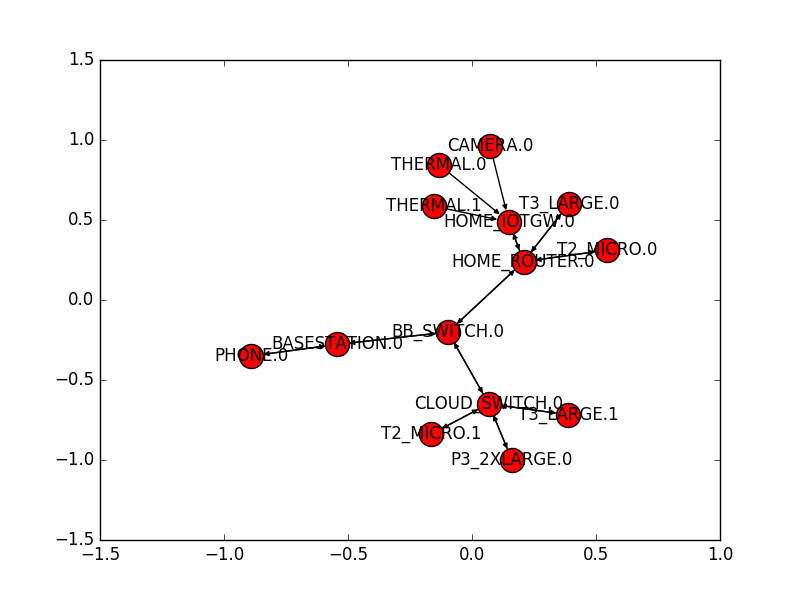
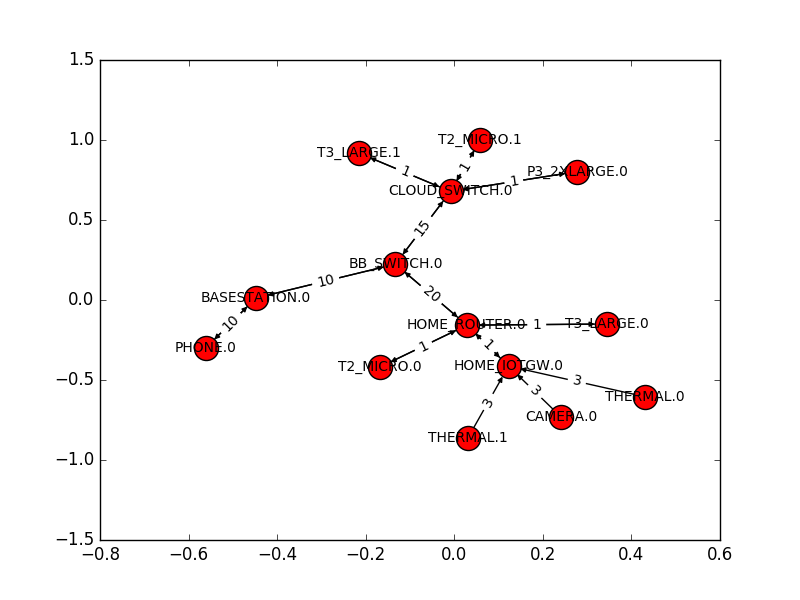
show result and fix wrong constrain

diff --git a/placethings/ilp_solver.py b/placethings/ilp_solver.py
@@ -5,13 +5,14 @@ from __future__ import unicode_literals
 
 from builtins import range
 from collections import defaultdict
-from future.utils import listvalues
+from future.utils import listvalues, iteritems
 import logging
 from itertools import izip as zip
 import pulp
 import networkx as nx
 
 from placethings.definition import Const, GdInfo, GtInfo, Hardware
+from placethings.utils import common_utils, plot_utils
 
 
 log = logging.getLogger()
@@ -20,7 +21,8 @@ log = logging.getLogger()
 def _find_src_nodes(Gt):
     src_list = []
     for node in Gt.nodes():
-        if not Gt.predecessors(node):
+        predecessors = list(Gt.predecessors(node))
+        if not predecessors:
             src_list.append(node)
     return src_list
 
@@ -28,12 +30,35 @@ def _find_src_nodes(Gt):
 def _find_dst_nodes(Gt):
     dst_list = []
     for node in Gt.nodes():
-        if not Gt.successors(node):
+        successors = list(Gt.successors(node))
+        if not successors:
             dst_list.append(node)
     return dst_list
 
 
-def place_things(target_latency, Gt, Gd):
+def _find_all_simple_path(Gt):
+    """
+    Generate all simple paths in the graph G from source to target.
+    Args:
+        Gt (nx.DiGraph)
+    Returns:
+        src_list (list of str): source nodes
+        dst_list (list of str): dstination nodes
+        all_paths (list of list(str)): all simple paths of nodes' names
+    """
+    src_list = _find_src_nodes(Gt)
+    dst_list = _find_dst_nodes(Gt)
+    log.info('find all path from {} to {}'.format(src_list, dst_list))
+    all_paths = []
+    for src in src_list:
+        for dst in dst_list:
+            paths = list(nx.all_simple_paths(Gt, src, dst))
+            log.info('found path: {}'.format(paths))
+            all_paths += paths
+    return src_list, dst_list, all_paths
+
+
+def _solver(target_latency, Gt, Gd):
     """
     Args:
         target_latency (int): latency constrain for this task graph
@@ -275,14 +300,12 @@ def place_things(target_latency, Gt, Gd):
     prob += pulp.lpSum(all_XX) == len(Gt.edges())
 
     # Generate all simple paths in the graph G from source to target.
-    src_list = _find_src_nodes(Gt)
-    dst_list = _find_dst_nodes(Gt)
-    all_paths = []
-    for src in src_list:
-        for dst in dst_list:
-            paths = list(nx.all_simple_paths(Gt, src, dst))
-            all_paths += paths
-    all_mappings = pulp.combination(devices, len(tasks))
+    src_list, dst_list, all_paths = _find_all_simple_path(Gt)
+    log.info('find all path from {} to {}'.format(src_list, dst_list))
+    # Generate all possible mappings
+    all_mappings = list(pulp.permutation(devices, len(tasks)))
+    log.info('{} possible mappings for {} devices and {} tasks'.format(
+        len(all_mappings), len(devices), len(tasks)))
     task_to_idx = dict(zip(tasks, range(len(tasks))))
     # use constrains to model Y, the longest path for each mapping
     for device_mapping in all_mappings:
@@ -303,12 +326,16 @@ def place_things(target_latency, Gt, Gd):
                 Ld_di_dj = Gd[di][dj][GdInfo.LATENCY]
                 # path_vars.append((X[ti][di] * X[tj][dj]) * Ld_di_dj)
                 path_vars.append(XX[(ti, di)][(tj, dj)] * Ld_di_dj)
+                log.debug('Ld_di_dj (move from {} to {}) = {}'.format(
+                    di, dj, Ld_di_dj))
                 # get computation latency for task tj at dj
                 dj_type = Gd.node[dj][GdInfo.DEVICE_TYPE]
                 # get latency of the default build flavor
                 Lt_tj_dj = listvalues(
                     Gt.node[tj][GtInfo.LATENCY_INFO][dj_type])[0]
                 path_vars.append(X[tj][dj] * Lt_tj_dj)
+                log.debug('Lt_tj_dj (compute {} at {}) = {}'.format(
+                    tj, dj, Lt_tj_dj))
                 ti = tj
                 di = dj
             # last node: dst
@@ -317,6 +344,9 @@ def place_things(target_latency, Gt, Gd):
             Ld_di_dj = Gd[di][dj][GdInfo.LATENCY]
             # path_vars.append(X[ti][di] * X[tj][dj] * Ld_di_dj)
             path_vars.append(XX[(ti, di)][(tj, dj)] * Ld_di_dj)
+            log.debug('Ld_di_dj (move from {} to {}) = {}'.format(
+                di, dj, Ld_di_dj))
+            log.debug('add constrain for path:\n Y >= {}'.format(path_vars))
             # add constrain
             prob += Y >= pulp.lpSum(path_vars)
 
@@ -334,19 +364,94 @@ def place_things(target_latency, Gt, Gd):
             for ti in tasks:
                 di_type = Gd.node[di][GdInfo.DEVICE_TYPE]
                 # get the default flavor
-                ti_flavor = list(
-                    Gt.node[ti][GtInfo.LATENCY_INFO][di_type])[0]
+                ti_flavor = list(Gt.node[ti][GtInfo.LATENCY_INFO][di_type])[0]
                 Rt_t_r_d = (
-                    Gt.node[ti][GtInfo.RESRC_RQMT][ti_flavor].get(
-                        resrc, 0))
-                var_list.append(X[t][d] * Rt_t_r_d)
-            prob += Rd_d_r - pulp.lpSum(var_list) >= 0
+                    Gt.node[ti][GtInfo.RESRC_RQMT][ti_flavor].get(resrc, 0))
+                if Rt_t_r_d > 0:
+                    var_list.append(X[ti][di] * Rt_t_r_d)
+            if var_list:
+                log.debug('add constrain for {}({}):\n {} <= {}'.format(
+                    di, resrc, var_list, Rd_d_r))
+                prob += pulp.lpSum(var_list) <= Rd_d_r
 
     # solve
-    status = prob.solve()
+    status = prob.solve(pulp.solvers.GLPK(msg=1))
     log.info('status={}'.format(pulp.LpStatus[status]))
+    result_mapping = {}
     for t in Gt.nodes():
         for d in Gd.nodes():
             if pulp.value(X[t][d]):
                 log.info('map: {} <-> {}, X_t_d={}'.format(
                     t, d, pulp.value(X[t][d])))
+                result_mapping[t] = d
+    return status, result_mapping
+
+
+def _get_path_length(path, Gt, Gd, result_mapping):
+    log.info('path: {}'.format(path))
+    path_vars = []
+    # first node: src
+    ti = path[0]
+    di = Gt.node[ti][GtInfo.DEVICE]
+    # device_mapping start from path[1] to path[N-1]
+    for j in range(1, len(path)-1):
+        tj = path[j]
+        dj = result_mapping[tj]
+        # get transmission latency from di -> dj
+        Ld_di_dj = Gd[di][dj][GdInfo.LATENCY]
+        path_vars.append(Ld_di_dj)
+        log.debug('Ld_di_dj (move {} -> {}) = {}'.format(di, dj, Ld_di_dj))
+        # get computation latency for task tj at dj
+        dj_type = Gd.node[dj][GdInfo.DEVICE_TYPE]
+        # get latency of the default build flavor
+        Lt_tj_dj = listvalues(Gt.node[tj][GtInfo.LATENCY_INFO][dj_type])[0]
+        path_vars.append(Lt_tj_dj)
+        log.debug('Lt_tj_dj (do {} at {}) = {}'.format(tj, dj, Lt_tj_dj))
+        ti = tj
+        di = dj
+    # last node: dst
+    tj = path[len(path)-1]
+    dj = Gt.node[tj][GtInfo.DEVICE]
+    Ld_di_dj = Gd[di][dj][GdInfo.LATENCY]
+    path_vars.append(Ld_di_dj)
+    log.debug('Ld_di_dj (move {} -> {}) = {}'.format(di, dj, Ld_di_dj))
+    path_length = sum(path_vars)
+    log.info('\tlength: {}, {}'.format(path_length, path_vars))
+    return path_length
+
+
+def place_things(target_latency, Gt, Gd):
+    status, result_mapping = _solver(target_latency, Gt, Gd)
+    log.info('solver status: {}'.format(pulp.LpStatus[status]))
+    assert status == pulp.constants.LpStatusOptimal
+    log.info('check solution for all simple path from src to dst')
+    src_list, dst_list, all_paths = _find_all_simple_path(Gt)
+    max_latency = 0
+    for path in all_paths:
+        path_length = _get_path_length(path, Gt, Gd, result_mapping)
+        max_latency = max(path_length, max_latency)
+    log.info('max_latency={}'.format(max_latency))
+    # update mapping and gen node labels
+    node_labels = {}
+    for task, device in iteritems(result_mapping):
+        if Gt.node[task][GtInfo.DEVICE]:
+            assert device == Gt.node[task][GtInfo.DEVICE]
+        Gt.node[task][GtInfo.DEVICE] = device
+        device_type = Gd.node[device][GdInfo.DEVICE_TYPE]
+        compute_latency = 0
+        latency_info = Gt.node[task][GtInfo.LATENCY_INFO]
+        if latency_info:
+            compute_latency = listvalues(latency_info[device_type])[0]
+        node_labels[task] = '{}\n{}({}ms)'.format(
+            task, device, compute_latency)
+    edge_labels = {}
+    for edge in Gt.edges():
+        t1, t2 = edge
+        d1, d2 = Gt.node[t1][GtInfo.DEVICE], Gt.node[t2][GtInfo.DEVICE]
+        transmission_latency = Gd[d1][d2][GdInfo.LATENCY]
+        edge_labels[edge] = '{}ms'.format(transmission_latency)
+    # plot
+    plot_utils.plot(
+        Gt, node_label_dict=node_labels,
+        with_edge=True, edge_label_dict=edge_labels,
+        filepath=common_utils.get_file_path('output/result_mapping.png'))

diff --git a/placethings/utils/plot_utils.py b/placethings/utils/plot_utils.py
@@ -21,7 +21,10 @@ def save_plot(filepath):
     plt.close()
 
 
-def plot(graph, with_edge=True, which_edge_label=None, filepath=None):
+def plot(
+        graph,
+        with_edge=True, which_edge_label=None, edge_label_dict=None,
+        node_label_dict=None, filepath=None):
     pos = nx.spring_layout(graph)
     nx.draw_networkx_nodes(
         graph,
@@ -34,8 +37,8 @@ def plot(graph, with_edge=True, which_edge_label=None, filepath=None):
     nx.draw_networkx_labels(
         graph,
         pos=pos,
-        labels=None,
-        font_size=12,
+        labels=node_label_dict,
+        font_size=10,
         font_color='k',
         font_family='sans-serif',
         font_weight='normal',
@@ -49,17 +52,19 @@ def plot(graph, with_edge=True, which_edge_label=None, filepath=None):
             edge_color='k',
             style='solid',
         )
-        if not which_edge_label:
-            edge_labels = {}
-        else:
-            edge_labels = {
-                (src, dst): attr[which_edge_label]
-                for src, dst, attr in graph.edges(data=True)
-            }
+        assert not (edge_label_dict and which_edge_label)
+        if not edge_label_dict:
+            if not which_edge_label:
+                edge_label_dict = {}
+            else:
+                edge_label_dict = {
+                    (src, dst): attr[which_edge_label]
+                    for src, dst, attr in graph.edges(data=True)
+                }
         nx.draw_networkx_edge_labels(
             graph,
             pos=pos,
-            edge_labels=edge_labels,
+            edge_labels=edge_label_dict,
             label_pos=0.5,
             font_size=10,
             font_color='k',

diff --git a/placethings/graph_gen/device_graph.py b/placethings/graph_gen/device_graph.py
@@ -143,9 +143,9 @@ def create_graph(
             dev_graph_filename = 'output/device_graph.png'
         if not dev_data_filename:
             dev_data_filename = 'output/device_graph.json'
-        export_graph(graph, nw_graph_filename)
+        export_nw_graph(graph, nw_graph_filename)
         export_data(node_info, edge_info, nw_data_filename)
-        export_graph(dev_graph, dev_graph_filename)
+        export_dev_graph(dev_graph, dev_graph_filename)
         export_data(node_info, dev_edge_info, dev_data_filename)
     return dev_graph
 
@@ -174,11 +174,19 @@ def create_graph_from_file(
         dev_graph_filename, dev_data_filename)
 
 
-def export_graph(graph, filename):
+def export_dev_graph(graph, filename):
     plot_utils.plot(
         graph,
         with_edge=True,
-        which_edge_label=None,
+        which_edge_label=GdInfo.LATENCY,
+        filepath=filename)
+
+
+def export_nw_graph(graph, filename):
+    plot_utils.plot(
+        graph,
+        with_edge=True,
+        which_edge_label=GnInfo.LATENCY,
         filepath=filename)
 
 

diff --git a/placethings/config/default_def.py b/placethings/config/default_def.py
@@ -228,15 +228,15 @@ TASK_INFO = {
         GtInfo.RESRC_RQMT: {
             Flavor.GPU: {
                 Hardware.RAM: Unit.gbyte(4),
-                Hardware.HD: Unit.mbyte(500),
+                Hardware.HD: Unit.mbyte(30),
                 Hardware.GPU: Unit.percentage(60),
                 Hardware.CPU: Unit.percentage(5),
             },
             Flavor.CPU: {
                 Hardware.RAM: Unit.gbyte(1),
-                Hardware.HD: Unit.mbyte(300),
+                Hardware.HD: Unit.mbyte(30),
                 Hardware.GPU: Unit.percentage(0),
-                Hardware.CPU: Unit.percentage(80),
+                Hardware.CPU: Unit.percentage(60),
             },
         },
     },

diff --git a/placethings/utils/json_utils.py b/placethings/utils/json_utils.py
@@ -29,13 +29,13 @@ class CustomEncoder(json.JSONEncoder):
         return new_dict
 
     def iterencode(self, obj):
-        log.info('encode using CustomEncoder.iterencode')
+        log.debug('encode using CustomEncoder.iterencode')
         if isinstance(obj, dict):
             obj = self._convert_keys_to_strs(obj)
         return super(CustomEncoder, self).iterencode(obj)
 
     def default(self, obj):
-        log.info('encode using CustomEncoder.default')
+        log.debug('encode using CustomEncoder.default')
         if EnumHelper.is_enum(obj):
             return EnumHelper.enum_to_str(obj)
         return super(CustomEncoder, self).default(obj)

diff --git a/placethings/graph_gen/task_graph.py b/placethings/graph_gen/task_graph.py
@@ -43,9 +43,6 @@ def create_graph(
         is_export=False, graph_filename=None, data_filename=None):
     node_info, edge_info = _derive_graph_info(mapping, task_links, task_info)
     graph = graph_utils.gen_graph(node_info, edge_info)
-    print(graph.node['task_thermal_loc1'])
-    print(graph.node['task_getAvgTemperature'])
-
     if is_export:
         export_graph(graph, graph_filename)
         export_data(node_info, edge_info, data_filename)

diff --git a/placethings/definition.py b/placethings/definition.py
@@ -153,8 +153,8 @@ class Hardware(Enum):
     CPU = auto()
     GPU = auto()
     # derived data / shared
-    NIC_INGRESS = auto()
-    NIC_EGRESS = auto()
+    # NIC_INGRESS = auto()
+    # NIC_EGRESS = auto()
     # non-shared
     GPS = auto()
     PROXIMITY = auto()
